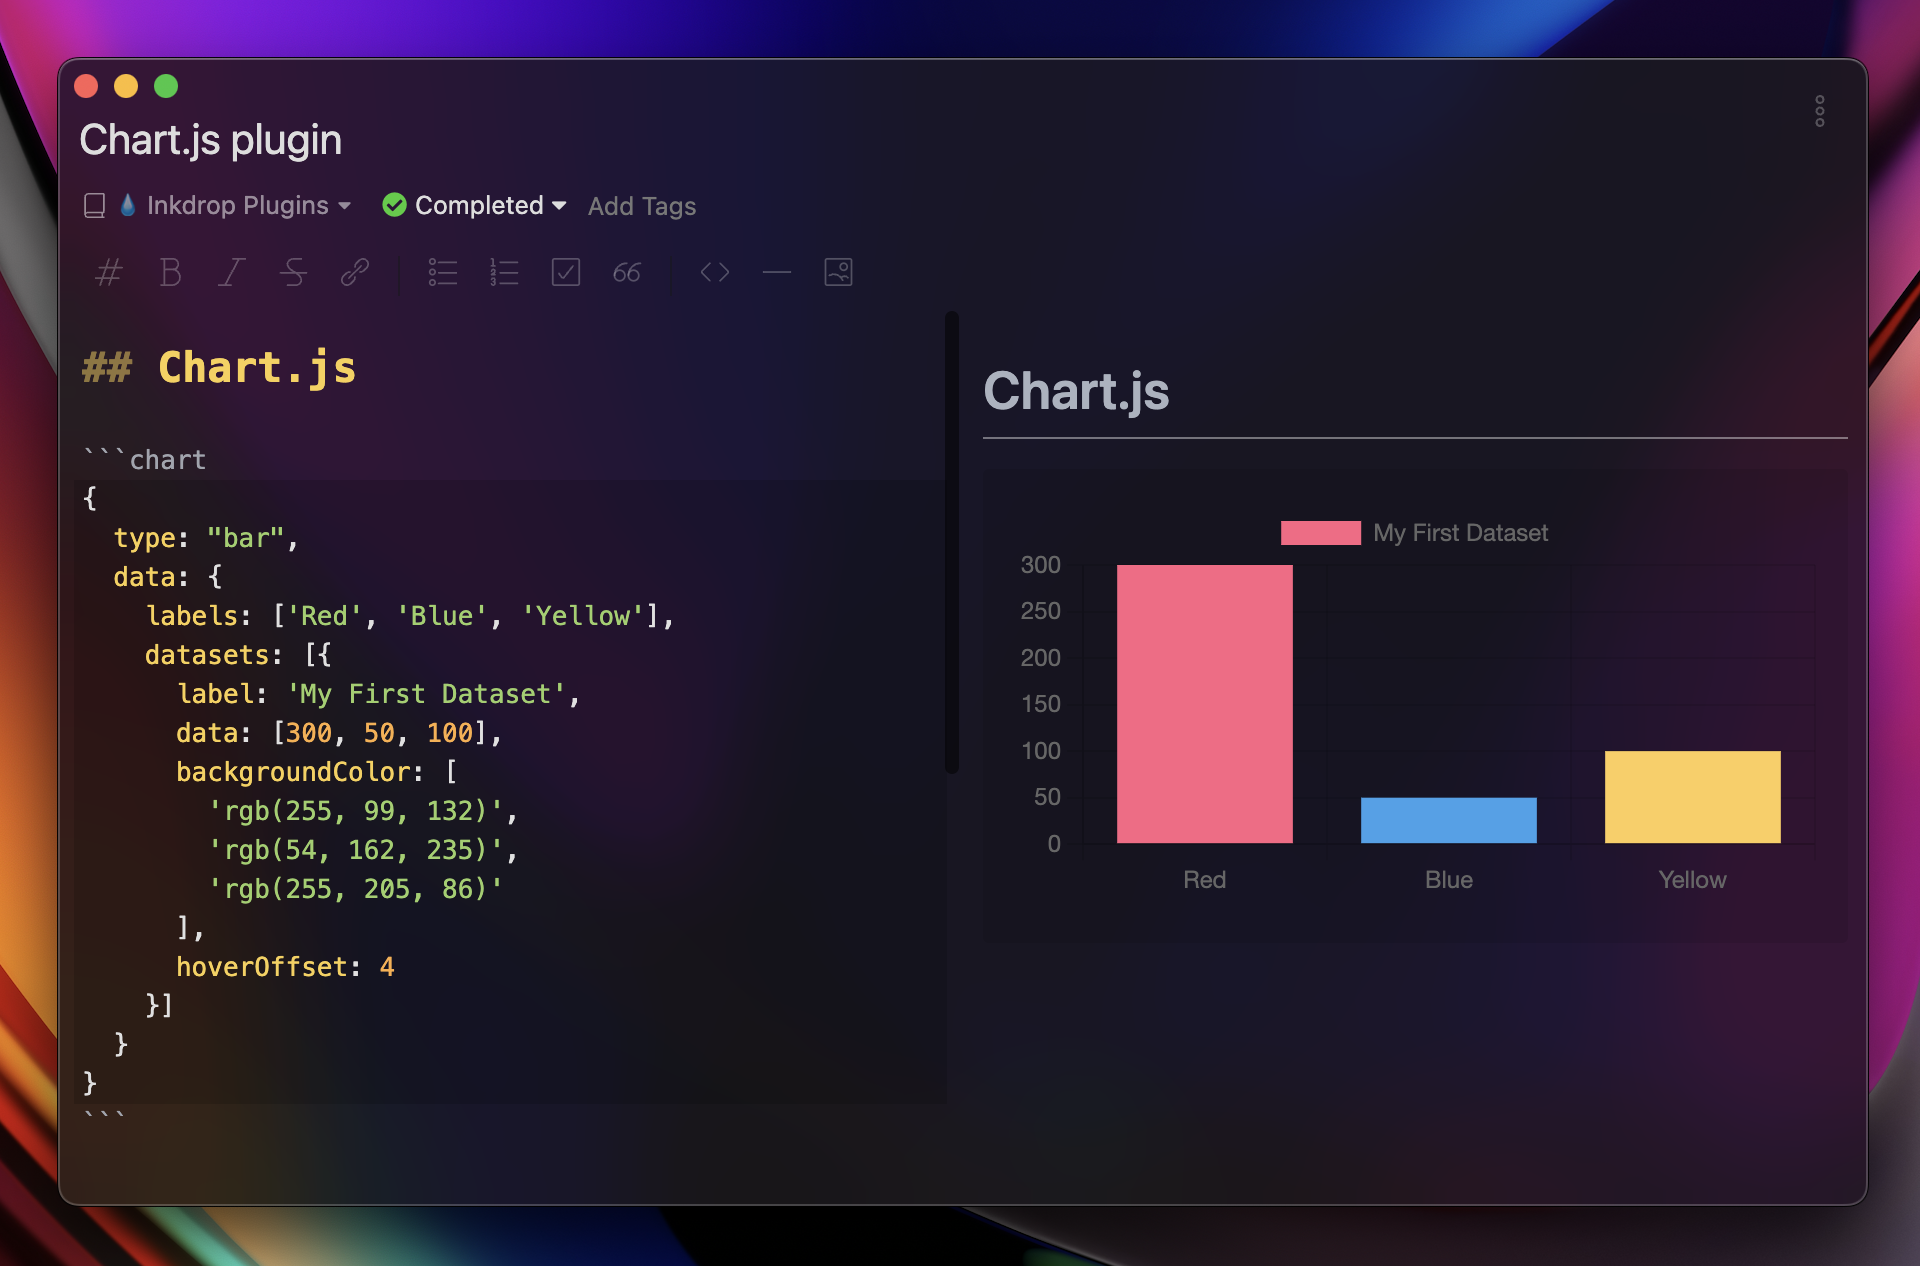
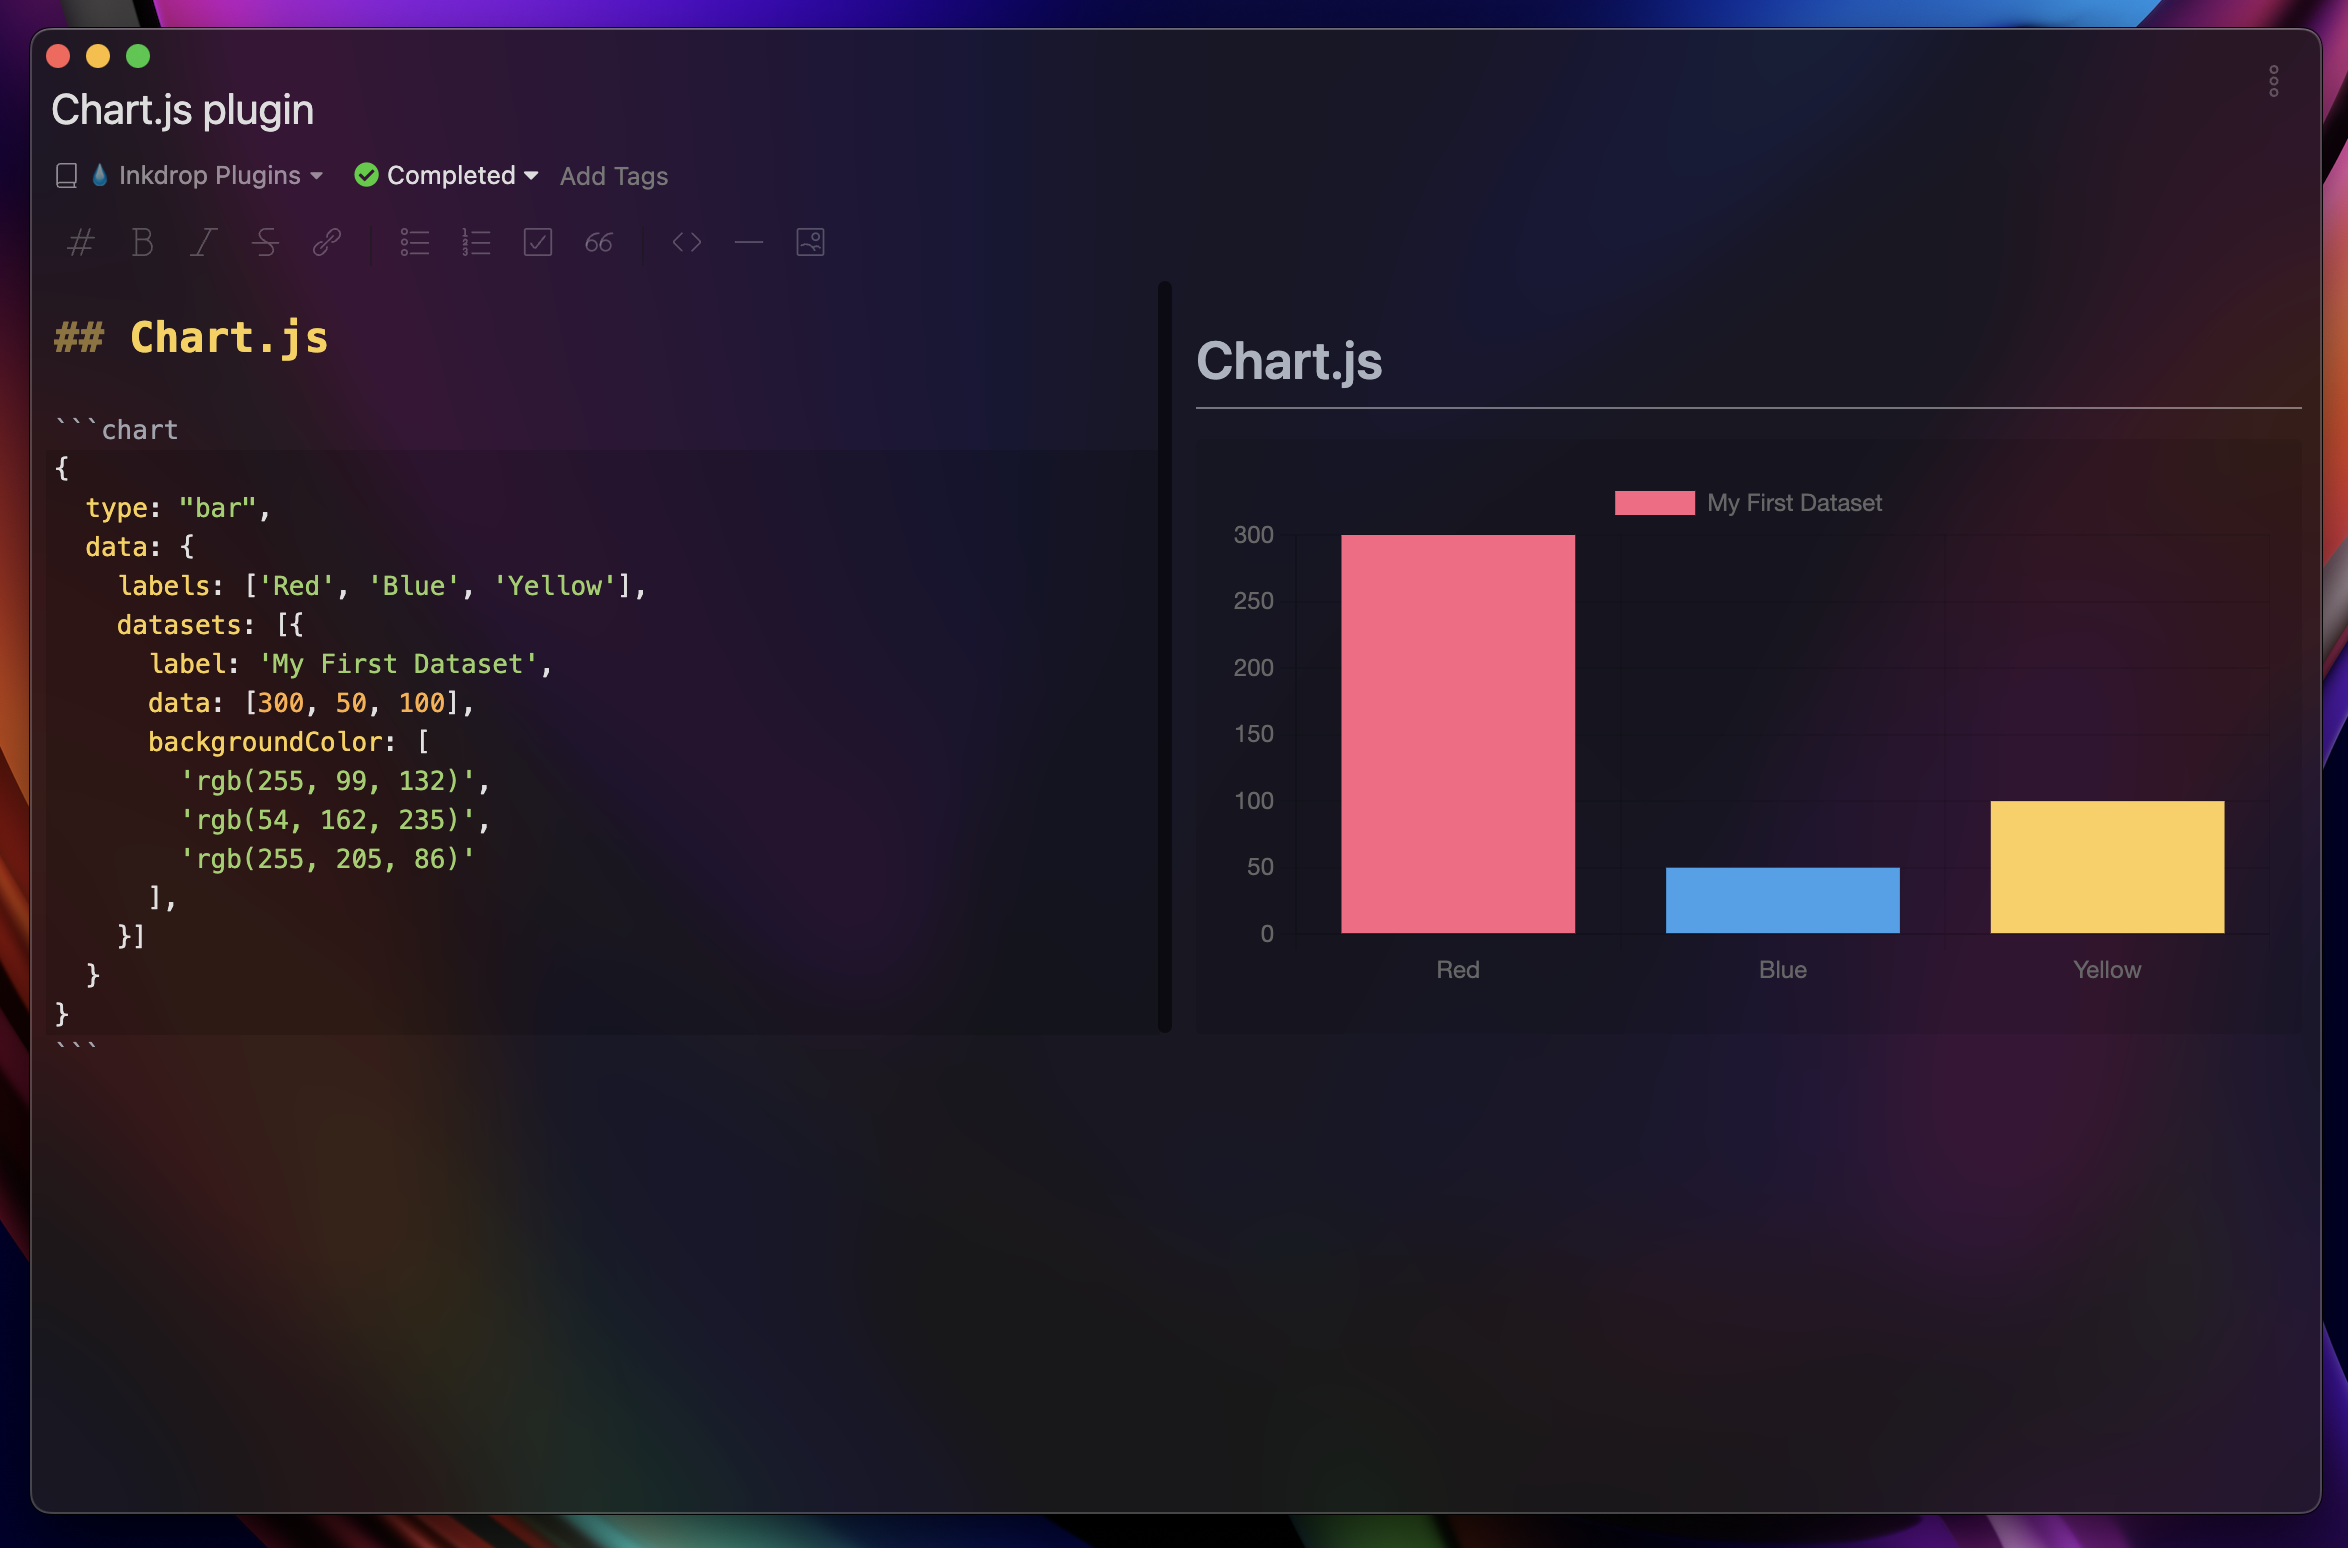
update README.md

diff --git a/README.md b/README.md
@@ -9,15 +9,45 @@ Inkdrop plugin for drawing charts with [Chart.js](https://www.chartjs.org/)
 
 ## Usage
 
-Following the [Chart.js documentation](https://www.chartjs.org/docs/latest/), write a JSON config to be passed into the `Chart(ctx, config)` class as a second argument `config`.
+Create a fenced code block specifying a `chart` identifier and write a JSON `config` code to be passed into the `new Chart(ctx, config)` class as a second argument.
 
-This plugin parses code block contents by [JSON5](https://json5.org), so there is no need to write strict JSON and it can be written in a nomarl JavaScript object like the above screenshot.
+For example:
+
+````
+```chart
+{
+  type: "bar",
+  data: {
+    labels: ['Red', 'Blue', 'Yellow'],
+    datasets: [{
+      label: 'My First Dataset',
+      data: [300, 50, 100],
+      backgroundColor: [
+        'rgb(255, 99, 132)',
+        'rgb(54, 162, 235)',
+        'rgb(255, 205, 86)'
+      ],
+    }]
+  }
+}
+```
+````
+
+This plugin parses code block contents with [JSON5](https://json5.org), so there is no need to write strict JSON and it can be written in a normal JavaScript object.
+
+**NOTE**
+
+This plugin renders a chart as a static image and disables animations. Thus, all animation-related options in your configs will be ignored.
 
 ## Breaking changes
 
-Since the version 2.0 this plugin uses Chart.js v4 on backend. Your previous codes supposing Chart.js v2 may be broken.
+Since the version 2.0 this plugin uses Chart.js v4 on backend. Your previous codes supposing Chart.js v2 may get broken.
 
 ## CHANGELOG
+
+- 2.1.0
+
+  - Make background transparent
 
 - 2.0.0
 
@@ -37,3 +67,7 @@ Since the version 2.0 this plugin uses Chart.js v4 on backend. Your previous cod
 
 - 1.1.0
   - allow Relaxed-JSON format
+
+```
+
+```
